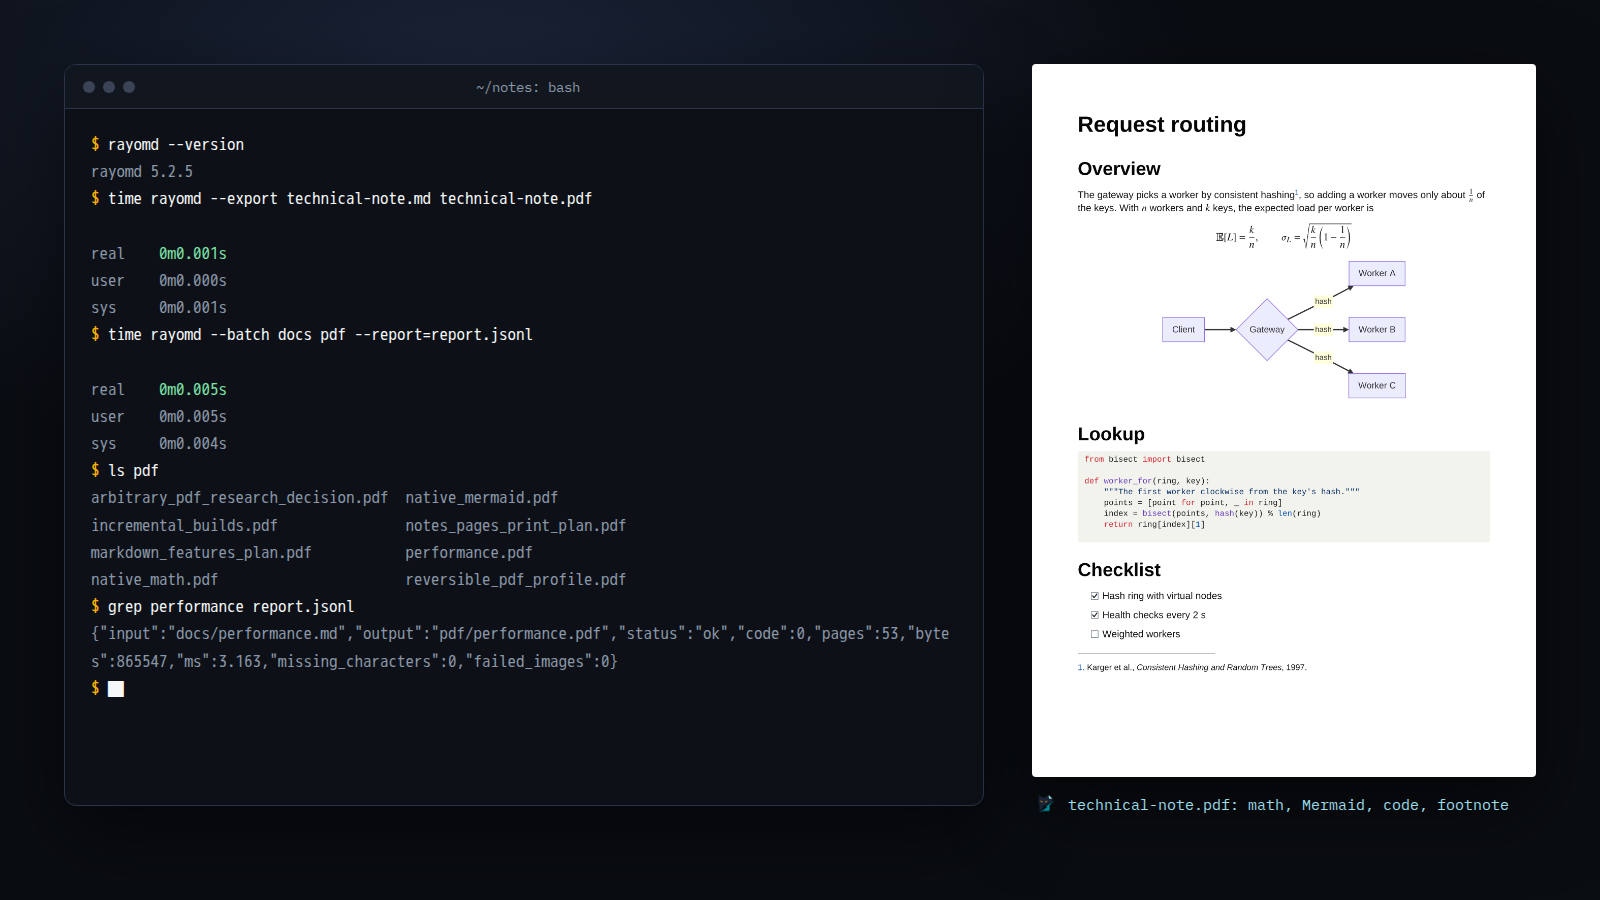
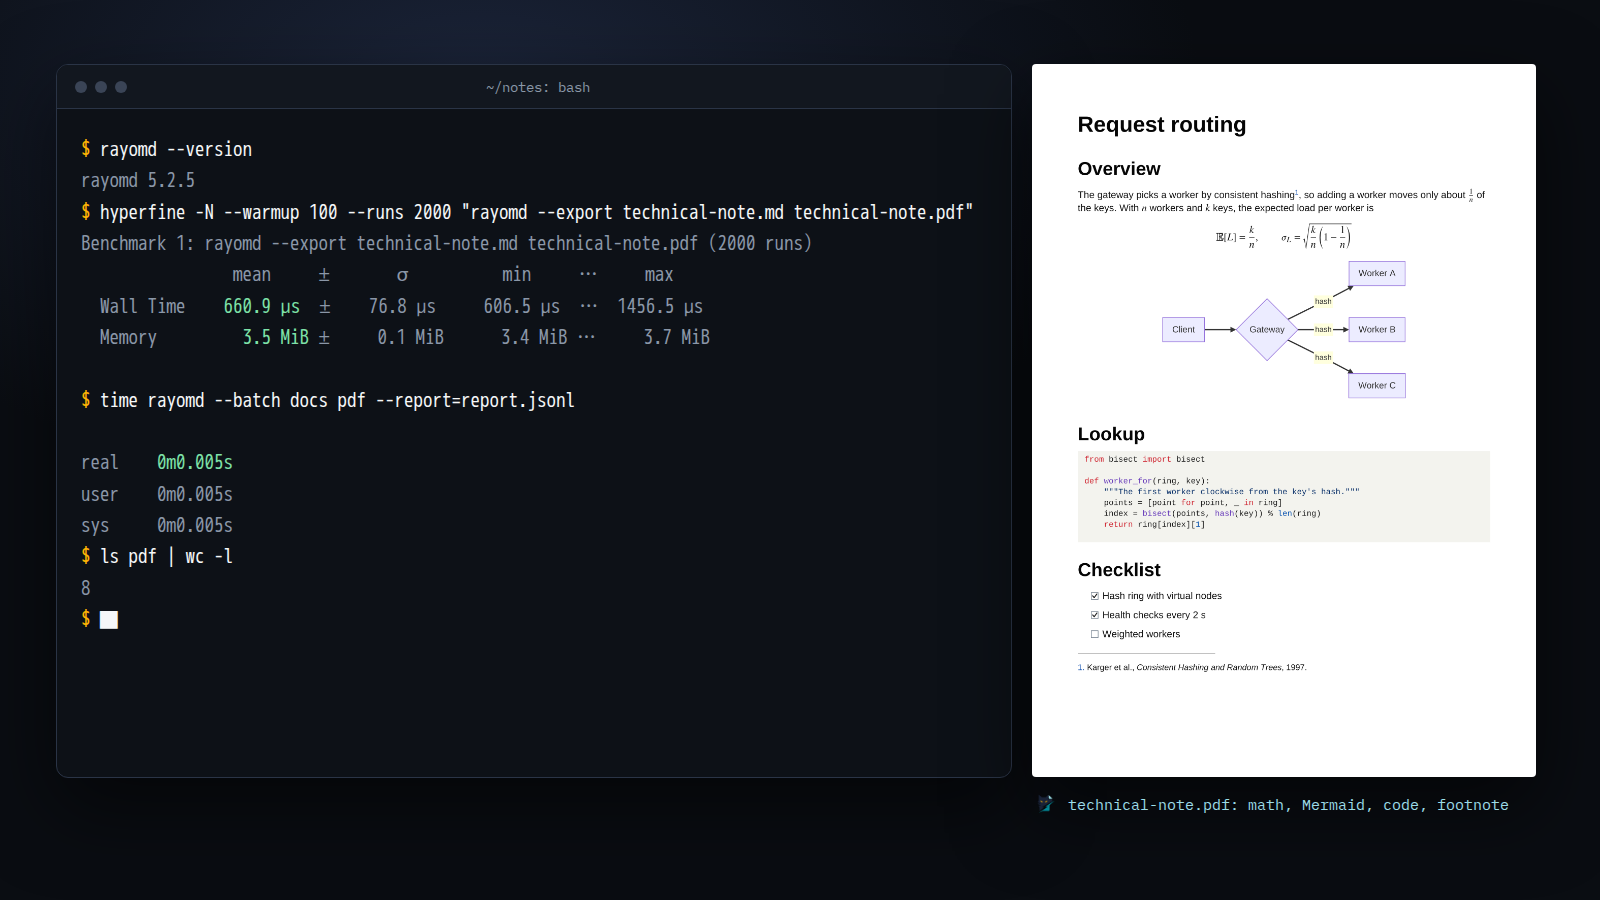
rayomd: under a millisecond, hyperfine in the screenshot

Changed region(s): [[0.0312, 0.1556, 0.625, 0.7778], [0.3125, 0.0933, 0.375, 0.1244], [0.0312, 0.0933, 0.0938, 0.1244]]

diff --git a/frontend/src/content/tools/rayomd.md b/frontend/src/content/tools/rayomd.md
@@ -2,7 +2,7 @@
 name: rayomd
 category: Data Processing
 short_description: >-
-  Markdown to PDF in about a millisecond: one small native binary, no browser,
+  Markdown to PDF in under a millisecond: one small native binary, no browser,
   LaTeX or Pandoc.
 description: |-
   RayoMD converts Markdown to PDF with its own C++17 parser and layout engine
@@ -10,14 +10,17 @@ description: |-
   runtime to install. The Linux download is 727 KB (852 KB for Windows) and the
   binary needs only libc; the static build needs nothing at all.
 
-  **Fast.** A fresh `rayomd --export` of the repository's `tester.md` takes
-  1.34 ms from start to exit with 3.4 MiB of peak memory, and a running process
-  (`--serve`, `--batch`) exports each further document in 0.16 ms. In the same
-  comparison Pandoc + Typst took 357 ms, md-to-pdf (Chromium) 1,821 ms and
-  Pandoc + XeLaTeX 2,147 ms (RayoMD 5.2.5 on an AMD Ryzen 5 PRO 4650GE,
-  2026-10-20; time to a finished PDF, not identical output). In the screenshot,
-  on the same machine: one note in about 1 ms, eight documents with 100 pages
-  in 5 ms.
+  **Under a millisecond.** A note with a formula, a Mermaid flowchart and
+  highlighted code goes from Markdown to PDF in 0.66 ms, start to exit, as a
+  fresh process of the static Linux build with 3.5 MiB of peak memory
+  (hyperfine, 2,000 runs; the screenshot). A running process (`--serve`,
+  `--batch`) exports each further document in 0.16 ms, and one batch writes
+  eight documents with 100 pages in 5 ms.
+
+  The longer `tester.md` (Unicode text, tables, code, footnotes, formulas) takes
+  1.34 ms, where Pandoc + Typst took 357 ms, md-to-pdf (Chromium) 1,821 ms and
+  Pandoc + XeLaTeX 2,147 ms: RayoMD 5.2.5 on an AMD Ryzen 5 PRO 4650GE,
+  2026-10-20, comparing time to a finished PDF, not identical output.
 
   - GitHub Markdown: tables, task lists, footnotes, alerts, and bookmarks and
     `#anchor` links from headings
